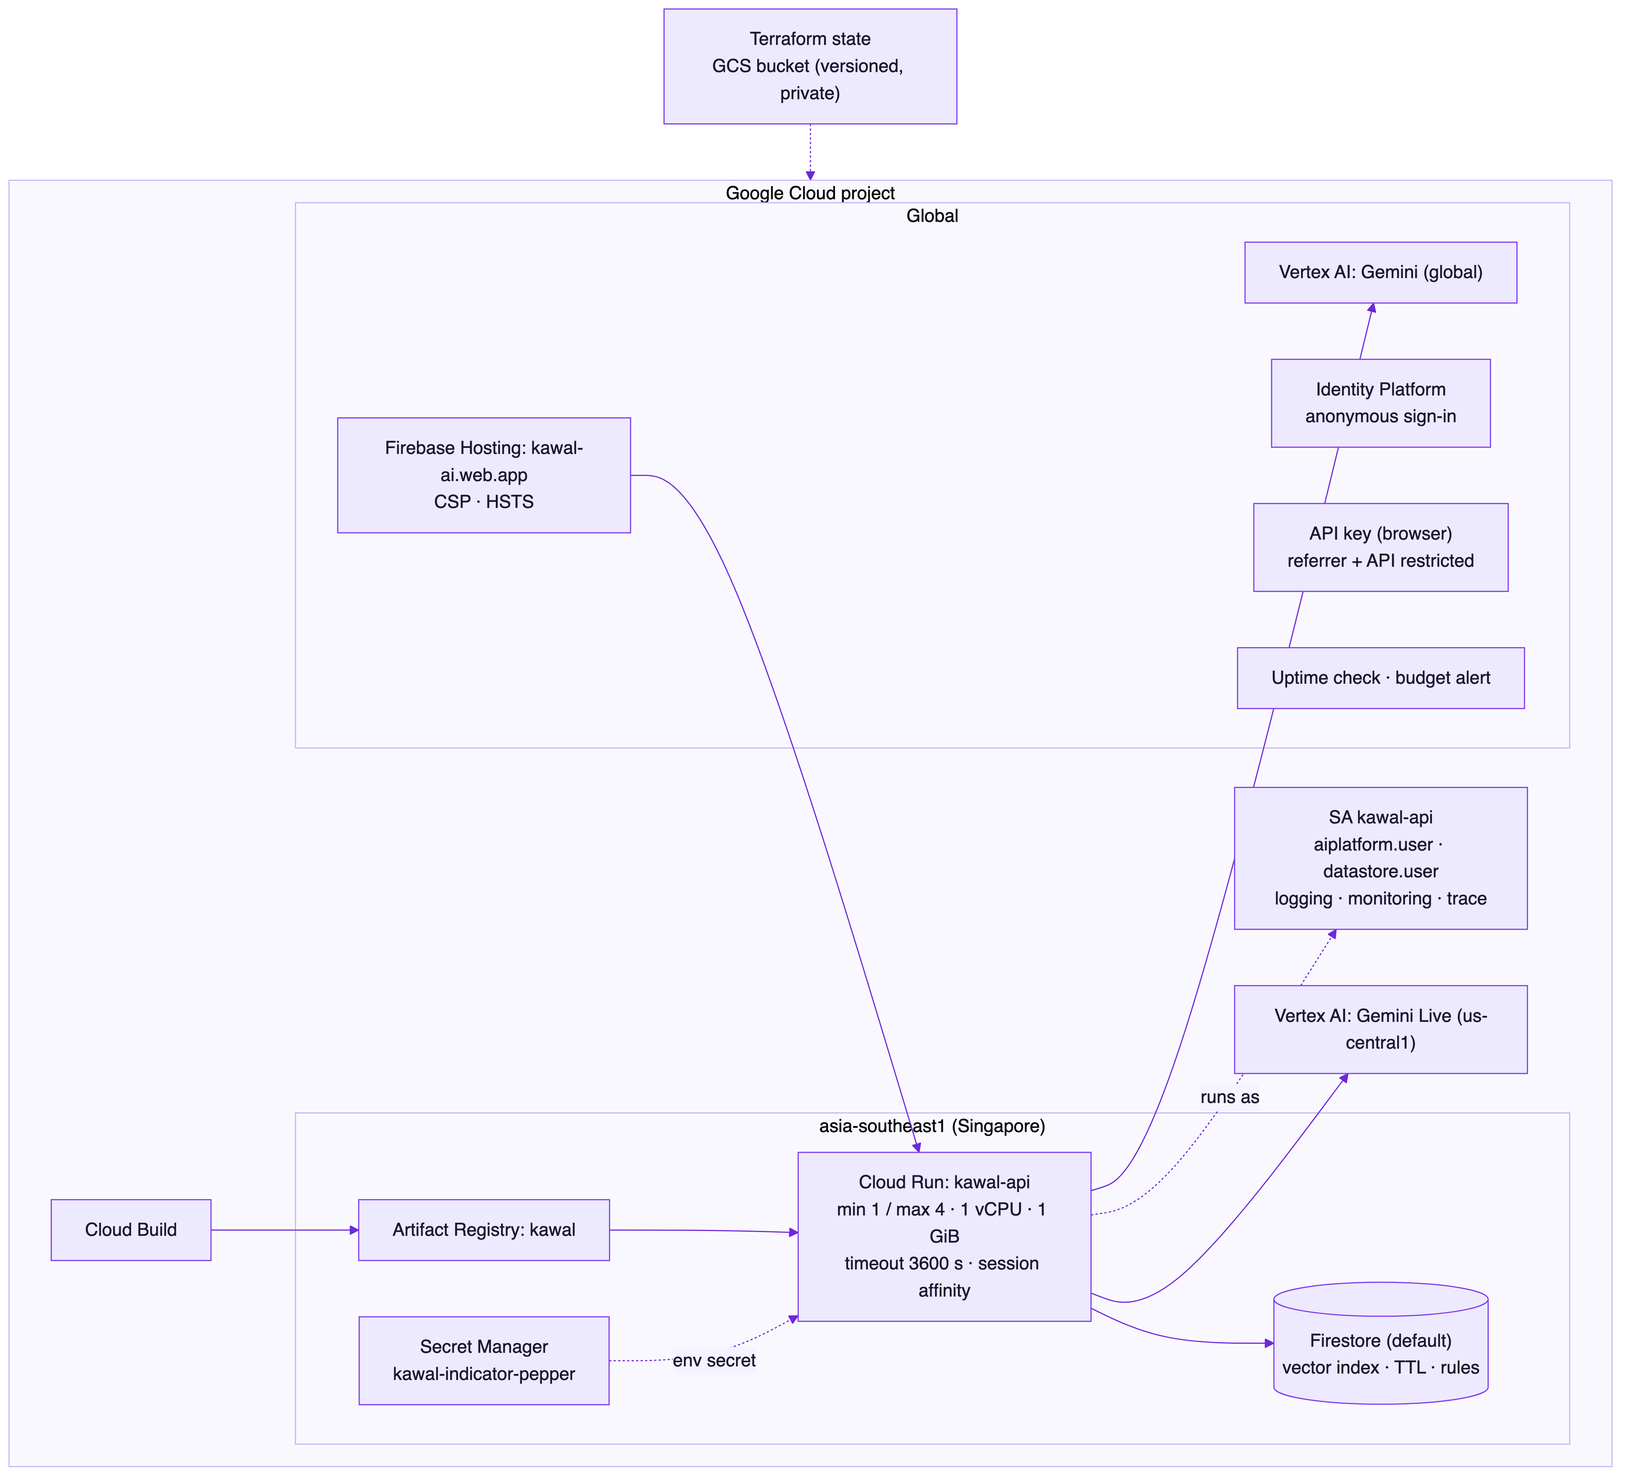
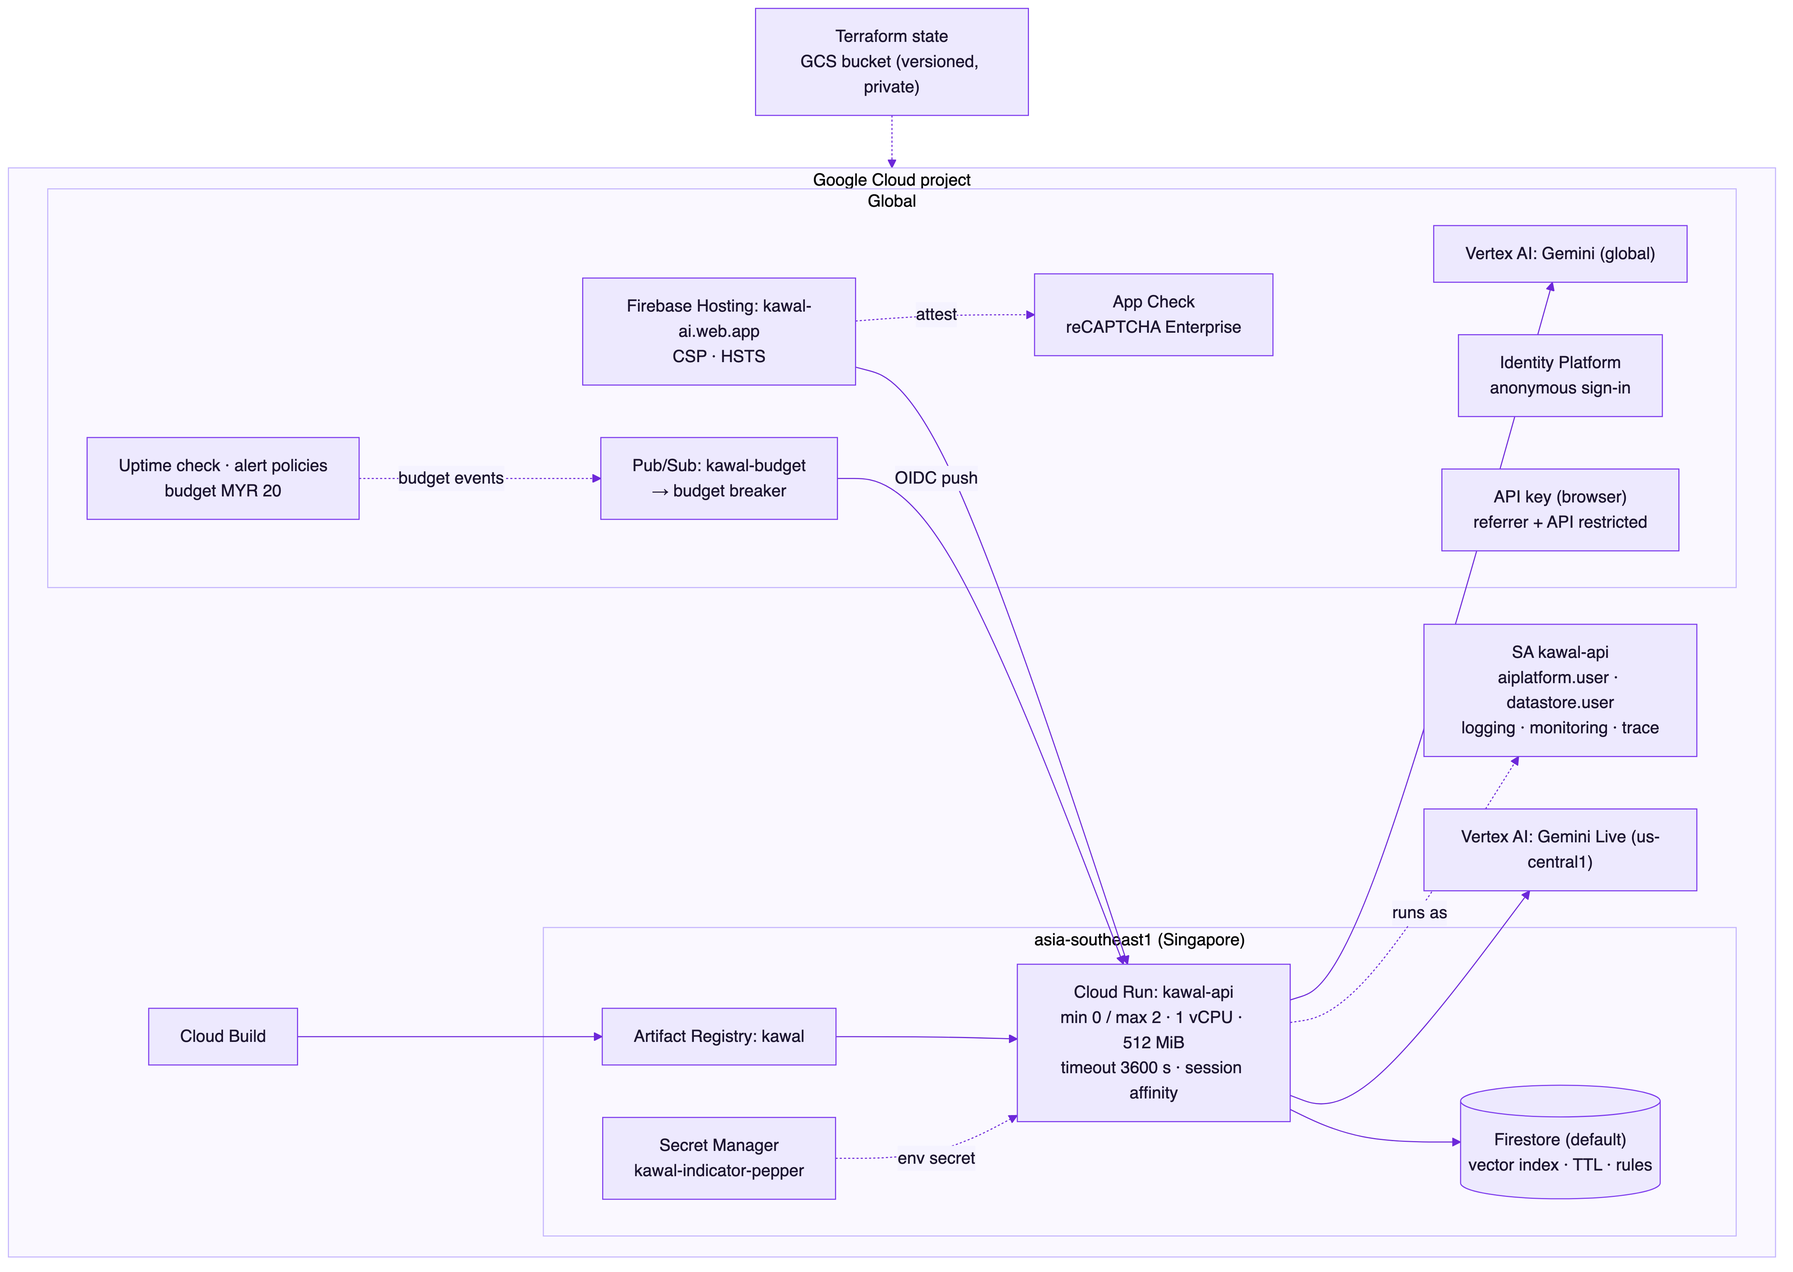
Docs: cost & abuse controls, updated architecture, security and deployment

diff --git a/docs/COST_CONTROLS.md b/docs/COST_CONTROLS.md
@@ -1,0 +1,107 @@
+# Cost & abuse controls
+
+Kawal is open source and its API is public, so anyone can read the code and try to call it. The deployment is
+built so that **the monthly bill stays near zero and can never run away**, no matter who calls it.
+
+```mermaid
+flowchart LR
+  U["Request"] --> AC{"App Check<br/>reCAPTCHA Enterprise"}
+  AC -->|no / invalid| X1["401"]
+  AC --> AUTH{"Firebase ID token"}
+  AUTH -->|no / invalid| X2["401"]
+  AUTH --> KS{"Kill switch<br/>config/runtime.paused"}
+  KS -->|paused| X3["503 - paused to stay in budget"]
+  KS --> RL{"Per-minute limit<br/>per user"}
+  RL -->|burst| X4["429"]
+  RL --> C{"Cache hit?<br/>(24 h)"}
+  C -->|yes| OK1["Instant result<br/>no model cost"]
+  C -->|no| Q{"Daily quota<br/>global · user · IP"}
+  Q -->|exceeded| X5["429 - daily limit"]
+  Q --> V{"Input checks<br/>size · type sniffing"}
+  V -->|bad| X6["400 / 413 / 415"]
+  V --> G["Gemini call<br/>trimmed context<br/>max output tokens"]
+  B["Cloud Billing budget<br/>MYR 20 / month"] -->|Pub/Sub| BR["/internal/budget"]
+  BR -->|spend ≥ 100%| KS
+```
+
+## 1. Layers
+
+| # | Layer | Where | What it stops |
+|---|---|---|---|
+| 1 | **Firebase App Check** (reCAPTCHA Enterprise, invisible) | API (`X-Firebase-AppCheck`, WebSocket first frame), Firestore and Firebase Auth enforcement | Scripts, bots and copies of the open-source frontend calling *our* backend; mass anonymous-account creation |
+| 2 | **Firebase Auth** ID token | every API call and WebSocket | Unauthenticated calls; gives each browser a uid for quotas |
+| 3 | **Kill switch** `config/runtime.paused` | `guard.ensure_open()` on every AI endpoint | All model spend, instantly (cached 30 s per instance) |
+| 4 | **Budget circuit breaker** | Billing budget → Pub/Sub → `POST /internal/budget` (OIDC-verified) | Spend beyond the monthly budget; auto-resumes next month |
+| 5 | **Per-minute limits** | `auth.RateLimiter` | Bursts (e.g. 12 checks / min / user) |
+| 6 | **Daily quotas** - global, per user, per IP (hashed) | Firestore counters in a transaction (`guard.consume`) | The real ceiling: bounded worst-case daily spend |
+| 7 | **Caching** | Firestore `cache/` (24 h), bulletin reuse (60 min), TTS LRU, overview snapshot (30 s) | Paying twice for the same answer - judges click the same examples |
+| 8 | **Context trimming** | request validation + model configs | Huge inputs / outputs: 4 000-char text, ≤ 2 files, image 4 MB / audio 3 MB / PDF 2 MB, magic-byte sniffing, `max_output_tokens` on every call, live sessions ≤ 150 s, scorer window 3 000 chars and ≤ 40 re-scores, analyst ≤ 4 tool rounds with results capped at 3 000 chars |
+| 9 | **Topic & injection guards** | prompts | Using the analyst as a free chatbot ("I can only answer questions about Kawal's scam intelligence"); instructions hidden in scam messages |
+| 10 | **Infra sizing** | Terraform | Cloud Run scales to **zero**, max 2 instances, 512 MiB; uptime check every 15 min; image retention 3 |
+
+## 2. Default ceilings
+
+Set in `infra/variables.tf` (`global_daily`, `user_daily`, `ip_daily`), passed to Cloud Run as JSON. A partial
+override never removes the other caps.
+
+| Feature | Global / day | Per user / day | Per IP / day |
+|---|---|---|---|
+| Scam Check (uncached) | 150 | 20 | 40 |
+| Web grounding (Google Search) | 60 - then checks continue without it | - | - |
+| Live Call Guardian session (≤ 150 s each) | 25 | 5 | 10 |
+| Read-aloud (TTS) | 40 | 10 | 20 |
+| Ask Kawal Intel | 60 | 15 | 30 |
+| New threat bulletin | 8 | 3 | 5 |
+
+Live usage is public at `GET /api/usage`.
+
+## 3. What it costs
+
+*Estimates from public list prices at the time of writing - verify with the Google Cloud pricing calculator.*
+
+| Item | Monthly |
+|---|---|
+| Cloud Run (scale to zero, request-based billing) | ≈ 0 - inside the free tier at demo traffic |
+| Firestore, Hosting, Auth, Pub/Sub, Secret Manager, Cloud Build, Monitoring | ≈ 0 - free tiers |
+| reCAPTCHA Enterprise (App Check), Web Risk | ≈ 0 - free tiers |
+| Artifact Registry (3 images) | < USD 0.05 |
+| Gemini at realistic judging traffic (tens of checks / calls per day) | ≈ MYR 1-5 |
+| **Typical total** | **≈ MYR 0-5 / month** |
+
+**Worst case** (someone exhausts every global cap every day): roughly USD 2.5-4 / day of model spend. The
+**MYR 20 budget breaker** then pauses AI features; because Cloud Billing data can lag by up to a day, the
+realistic hard ceiling is about **budget + one day of maximum usage ≈ MYR 35 / month**.
+
+## 4. Alerts (e-mail to `var.alert_email` + billing admins)
+
+| Alert | Trigger |
+|---|---|
+| Budget thresholds | 25 / 50 / 75 / 90 / 100 % of actual spend, 100 % forecast |
+| **Budget breaker engaged** | log-based metric `kawal_breaker_trips` > 0 |
+| **Abuse spike** | more than 30 quota rejections in an hour (`kawal_quota_rejections`) |
+| API down | uptime check failing for 15 min |
+
+## 5. Operating it
+
+| Task | How |
+|---|---|
+| Pause everything now | Firestore → `config/runtime` → set `paused: true` (or `reason`), effective within 30 s |
+| Resume | set `paused: false` - or wait for the next budget period if the breaker paused it |
+| Raise / lower ceilings | edit `global_daily` / `user_daily` / `ip_daily` in `terraform.tfvars`, `scripts/deploy.sh api` |
+| Change the budget | `budget_amount` in `terraform.tfvars` (billing-account currency), `terraform apply` |
+| Keep an instance warm for a live demo | `min_instances = 1` (≈ USD 10-15 / month), set back to 0 afterwards |
+| Turn App Check off (e.g. local dev) | `appcheck_enforce = false`, or leave `VITE_RECAPTCHA_SITE_KEY` empty locally |
+| Headless tests / demo recording | register a UUID as `appcheck_debug_token` in `terraform.tfvars` and set `self.FIREBASE_APPCHECK_DEBUG_TOKEN` in the test browser - never commit it |
+
+## 6. Verified in production (16 Oct 2026)
+
+| Test | Result |
+|---|---|
+| API call without App Check token | `401 Missing App Check token` |
+| Scripted anonymous sign-up without App Check | rejected by Firebase Auth |
+| Executable renamed to `.png` | `415 File content does not match its type` |
+| Prompt injection against the analyst | refused, no tool calls |
+| 14-request burst | `429` after the per-minute limit |
+| Repeat of an identical check | served from cache in ~0.1 s, not counted against quotas |
+| Simulated over-budget notification (MYR 25 / 20) | kill switch engaged, AI endpoints return `503` |
+| Simulated new budget period | kill switch released automatically, checks work again |

diff --git a/README.md b/README.md
@@ -42,7 +42,7 @@ Google Cloud **AI Builder Cup 2026** · Track: **BFSI - Intelligent Risk, Fraud 
 | **API (Cloud Run)** | https://kawal-api-gb6wisvuia-as.a.run.app/api/health · [OpenAPI docs](https://kawal-api-gb6wisvuia-as.a.run.app/api/docs) |
 | **Demo video** | _added at submission_ |
 | **Pitch deck content** | [docs/PITCH_DECK.md](docs/PITCH_DECK.md) · [demo script](docs/DEMO_SCRIPT.md) · [submission text](docs/SUBMISSION.md) |
-| **Architecture deep-dive** | [docs/ARCHITECTURE.md](docs/ARCHITECTURE.md) |
+| **Architecture deep-dive** | [docs/ARCHITECTURE.md](docs/ARCHITECTURE.md) · [cost & abuse controls](docs/COST_CONTROLS.md) · [handover guide](docs/HANDOVER.md) |
 | **Benchmarks** | [docs/BENCHMARK.md](docs/BENCHMARK.md) |
 
 > **Try it in 30 seconds:** open the live demo → **Live Call Guardian** → *Try a sample scam call* → **Start guarding**.
@@ -68,10 +68,10 @@ Google Cloud **AI Builder Cup 2026** · Track: **BFSI - Intelligent Risk, Fraud 
 | **Gemini 3.8 Live** | Real-time call listening over a bidirectional stream: input transcription, `flag_scam_signal` tool calls, proactive (silent-by-default) spoken warnings. |
 | **Gemini 3.5 Flash-Lite** | Fast paths: Google Search **grounding** (~3 s, parallel with triage) and live transcript re-scoring every 2.5 s. |
 | **Gemini embeddings / TTS** | `gemini-embedding-2` (768-d) clusters reports into campaigns; `gemini-3.8-flash-tts` reads verdicts aloud and voiced the multi-language sample calls. |
-| **Cloud Run** | FastAPI service (Singapore): Server-Sent Events for the agent pipeline, a WebSocket bridge to Gemini Live, min-instance 1, least-privilege service account. |
+| **Cloud Run** | FastAPI service (Singapore): Server-Sent Events for the agent pipeline, a WebSocket bridge to Gemini Live, scale-to-zero, least-privilege service account, budget circuit-breaker endpoint. |
 | **Firestore** | Redacted reports + **KNN vector index**, HMAC-fingerprinted indicators, campaigns, stats, live feed; **TTL** policies for data minimisation; **real-time listeners** drive the console. |
-| **Firebase** | **Hosting** (CSP-hardened SPA), **Authentication** (anonymous sign-in → every API call carries a verified ID token), **Security Rules** (browsers are read-only on aggregated data). |
-| **Also** | Web Risk API, Secret Manager, Artifact Registry, Cloud Build, Cloud Monitoring uptime check, billing budget alert, API-key restrictions - all in [Terraform](infra/). |
+| **Firebase** | **Hosting** (CSP-hardened SPA), **Authentication** (anonymous sign-in → every API call carries a verified ID token), **App Check** (reCAPTCHA Enterprise) on API, Firestore and Auth, **Security Rules** (browsers are read-only on aggregated data). |
+| **Also** | Web Risk API, Secret Manager, Pub/Sub (budget breaker), Artifact Registry, Cloud Build, Cloud Monitoring alerts, billing budget, reCAPTCHA Enterprise, API-key restrictions - all in [Terraform](infra/). |
 
 ## Architecture
 
@@ -180,13 +180,29 @@ Measured on the deployed stack on 16 Oct 2026 - method, raw output and caveats i
 | **Full-screen alert** | **Intel Console** |
 | ![Scam alert](docs/images/ui-alert.png) | ![Intel Console](docs/images/ui-intel.png) |
 
+## Cost & abuse controls (open source, near-zero bill)
+
+The API is public, so every AI feature sits behind layered guard-rails - details in
+[docs/COST_CONTROLS.md](docs/COST_CONTROLS.md):
+
+- **Firebase App Check** (invisible reCAPTCHA Enterprise) on the API, Firestore and Auth - scripts and copies of the
+  frontend can't spend our quota.
+- **Daily ceilings** (global, per user, per hashed IP) in Firestore bound the worst-case daily model spend; usage is
+  public at `/api/usage`.
+- **Budget circuit breaker:** Cloud Billing budget (MYR 20) → Pub/Sub → kill switch that pauses AI features and
+  auto-resumes next month. E-mail alerts at 25-100 %, on breaker trips, abuse spikes and downtime.
+- **Context trimming & caching:** input caps with magic-byte sniffing, `max_output_tokens` everywhere, 150 s live
+  sessions, 24 h result cache, bulletin reuse.
+- **Scale to zero:** Cloud Run min 0 / max 2 - typical bill **≈ MYR 0-5 / month**.
+
 ## Privacy & security
 
 - **Nothing personal is stored.** Messages, screenshots, audio and transcripts are processed in memory only.
 - **Indicators become fingerprints.** Phone numbers, bank accounts and wallets are stored only as HMAC-SHA256 fingerprints (pepper in Secret Manager) with masked labels like `+6011******89`.
 - **Data minimisation.** Shared reports are redacted English summaries that expire after 180 days (Firestore TTL); feed items after 30 days.
 - **Least privilege.** Cloud Run runs as a dedicated service account (Vertex AI user, Datastore user, …) - no API keys in the backend. The browser API key is restricted to our domains and to Firebase APIs.
-- **Defence in depth.** Firebase ID tokens on every API call and WebSocket, origin checks, per-user rate limits, upload type/size limits, prompt-injection guards, strict CSP / HSTS headers, read-only Firestore rules.
+- **Defence in depth.** App Check + Firebase ID tokens on every API call and WebSocket, origin checks, rate limits and daily quotas, upload type/size limits with content sniffing, prompt-injection guards, strict CSP / HSTS headers, read-only Firestore rules.
+- **Repo hygiene.** gitleaks scan of all history (clean), pre-commit secret hook, GitHub secret scanning with push protection, Dependabot alerts, protected `main`.
 
 See [SECURITY.md](SECURITY.md) for the threat model and how to report a vulnerability.
 

diff --git a/docs/ARCHITECTURE.md b/docs/ARCHITECTURE.md
@@ -241,7 +241,7 @@ estimated loss averted) and `bulletins/*` the generated bulletins.
 flowchart TB
   subgraph gcp["Google Cloud project"]
     subgraph sg["asia-southeast1 (Singapore)"]
-      RUN["Cloud Run: kawal-api<br/>min 1 / max 4 · 1 vCPU · 1 GiB<br/>timeout 3600 s · session affinity"]
+      RUN["Cloud Run: kawal-api<br/>min 0 / max 2 · 1 vCPU · 512 MiB<br/>timeout 3600 s · session affinity"]
       AR["Artifact Registry: kawal"]
       FS[("Firestore (default)<br/>vector index · TTL · rules")]
       SM["Secret Manager<br/>kawal-indicator-pepper"]
@@ -249,9 +249,11 @@ flowchart TB
     subgraph glob["Global"]
       HOST["Firebase Hosting: kawal-ai.web.app<br/>CSP · HSTS"]
       AUTH["Identity Platform<br/>anonymous sign-in"]
+      APPC["App Check<br/>reCAPTCHA Enterprise"]
+      PS["Pub/Sub: kawal-budget<br/>→ budget breaker"]
       KEY["API key (browser)<br/>referrer + API restricted"]
       VX["Vertex AI: Gemini (global)"]
-      MON["Uptime check · budget alert"]
+      MON["Uptime check · alert policies<br/>budget MYR 20"]
     end
     VXL["Vertex AI: Gemini Live (us-central1)"]
     CB["Cloud Build"]
@@ -264,6 +266,9 @@ flowchart TB
   RUN --> FS & VX & VXL
   SM -. "env secret" .-> RUN
   HOST --> RUN
+  HOST -. "attest" .-> APPC
+  MON -. "budget events" .-> PS
+  PS -->|"OIDC push"| RUN
   TF -.-> gcp
 ```
 
@@ -274,7 +279,7 @@ env from Terraform outputs and deploys Hosting. Details: [DEPLOYMENT.md](DEPLOYM
 
 | Threat | Mitigation |
 |---|---|
-| Anyone calling the API / burning Gemini quota | Firebase ID token required on every call and WebSocket; per-uid rate limits; Cloud Run max instances; budget alert. |
+| Anyone calling the API / burning Gemini quota | App Check (reCAPTCHA Enterprise) + Firebase ID token on every call and WebSocket; per-minute limits; daily global / user / IP quotas; result caching; budget circuit breaker; Cloud Run max instances. See [COST_CONTROLS.md](COST_CONTROLS.md). |
 | Cross-site WebSocket hijacking | `Origin` must match the hosting domains; token sent in the first frame (never in the URL). |
 | Leaking victims' data | Raw content never stored; HMAC fingerprints; redacted summaries; TTL; Firestore rules deny all client writes and all reads of reports/indicators/sessions. |
 | Leaked credentials in a public repo | No service-account keys or API keys in code; Cloud Run uses its identity; browser key is restricted; `.gitignore` covers env/tfvars/state/keys. |

diff --git a/docs/DEPLOYMENT.md b/docs/DEPLOYMENT.md
@@ -16,8 +16,10 @@ its vector index).
 | Firebase project, web app, Hosting site | Web app hosting; `kawal-ai.web.app` by default |
 | Identity Platform config | Anonymous sign-in, authorised domains |
 | Restricted browser API key | Only our origins; only Identity Toolkit, Secure Token, Firestore, Installations |
-| Cloud Run service `kawal-api` | API + WebSockets; min 1 instance (no cold starts while judging), max 4 |
-| Uptime check + optional budget | `/api/health` every 5 min; monthly budget alerts at 50 / 90 / 100 % |
+| Cloud Run service `kawal-api` | API + WebSockets; scale to zero, max 2 instances, 512 MiB |
+| App Check | reCAPTCHA Enterprise key, App Check registration, enforcement on Firestore + Auth |
+| Budget + circuit breaker | Budget (MYR 20 default) → Pub/Sub → `/internal/budget` kill switch |
+| Monitoring | uptime check every 15 min; alerts for budget breaker, abuse spikes, downtime |
 
 ## Prerequisites
 
@@ -32,7 +34,8 @@ its vector index).
 ```bash
 export PROJECT_ID=your-project-id
 cp infra/terraform.tfvars.example infra/terraform.tfvars
-# edit: project_id, optionally billing_account (enables the budget alert) and hosting_site_id
+# edit: project_id, billing_account (enables budget + circuit breaker), alert_email,
+#       optionally hosting_site_id and appcheck_debug_token (a UUID, for headless tests only)
 ```
 
 `hosting_site_id` becomes `<id>.web.app` and must be globally unique.
@@ -105,9 +108,8 @@ python scripts/generate_sample_calls.py --project $PROJECT_ID   # Gemini TTS, ne
 
 ## Costs
 
-At prototype traffic the bill is dominated by one always-warm Cloud Run instance (≈ USD 10-15 / month with CPU
-throttling) plus per-request Gemini usage. Set `min_instances = 0` in `terraform.tfvars` to scale to zero after
-judging. See the cost estimate in [PITCH_DECK.md](PITCH_DECK.md#slide-10--estimated-implementation-cost).
+Typical bill ≈ MYR 0-5 / month (Cloud Run scales to zero; everything else sits in free tiers; Gemini at demo
+traffic). Ceilings, alerts and the budget circuit breaker are described in [COST_CONTROLS.md](COST_CONTROLS.md).
 
 ## Tear down
 

diff --git a/SECURITY.md b/SECURITY.md
@@ -25,7 +25,11 @@ repository. We aim to acknowledge reports within 72 hours.
 
 - **Identity:** Firebase Authentication (anonymous) - every REST call and WebSocket carries a Firebase ID token
   verified server-side with the Firebase Admin SDK.
-- **Abuse:** per-user rate limits, upload MIME allow-list and 8 MB cap, Cloud Run instance cap, monthly budget alert.
+- **App attestation:** Firebase App Check (reCAPTCHA Enterprise) is required by the API and enforced on Firestore
+  and Firebase Auth, so only the genuine web app can use the backend.
+- **Abuse & cost:** per-minute limits, daily global / per-user / per-IP quotas, a budget-driven kill switch,
+  upload allow-list with magic-byte sniffing and per-type size caps, output-token caps - see
+  [docs/COST_CONTROLS.md](docs/COST_CONTROLS.md).
 - **Transport & browser:** HTTPS only, HSTS, strict Content-Security-Policy, `X-Frame-Options: DENY`,
   `nosniff`, CORS and WebSocket `Origin` allow-lists.
 - **Data access:** Firestore Security Rules allow browsers to *read* only aggregated, redacted collections
@@ -36,6 +40,16 @@ repository. We aim to acknowledge reports within 72 hours.
 - **AI safety:** submitted content is treated as untrusted (prompt-injection guard), outputs are schema-bound and
   clamped to a fixed taxonomy, hotline numbers come from a static reviewed table, and Web Risk overrides the model
   when a link is known-malicious.
+
+## Repository hygiene
+
+- No credentials in the repository: `.env*`, `*.tfvars`, Terraform state, keys and credential files are git-ignored.
+- History scanned with **gitleaks v8.30.1** - no leaks. A `pre-commit` hook runs gitleaks before every commit
+  (`pip install pre-commit && pre-commit install`).
+- GitHub secret scanning with push protection, Dependabot alerts / security updates and a ruleset that blocks
+  force-pushes and deletion of `main` are enabled.
+- The Firebase web API key that ships inside the built JavaScript is *public by design*; it is restricted to our
+  domains and to the Firebase APIs, and is never committed.
 
 ## Supported versions
 

diff --git a/docs/PITCH_DECK.md b/docs/PITCH_DECK.md
@@ -159,14 +159,14 @@ Talking points:
 *Estimates from public list prices at the time of writing; verify with the Google Cloud pricing calculator.
 Gemini costs scale with tokens - figures below assume our measured prompt sizes.*
 
-**Prototype (current deployment)**
+**Prototype (current deployment) - engineered for near-zero cost**
 
 | Item | Monthly |
 |---|---|
-| Cloud Run - 1 warm instance (1 vCPU / 1 GiB, CPU throttled) | ≈ USD 10-15 |
-| Firestore, Hosting, Auth, Secret Manager, Artifact Registry | ≈ USD 0-5 (mostly free tier) |
-| Gemini usage at demo volume (≈ 2,000 checks + 300 call-minutes) | ≈ USD 20-60 |
-| **Total** | **≈ USD 30-80 / month** (budget alert set at MYR 200) |
+| Cloud Run (scale to zero), Firestore, Hosting, Auth, Pub/Sub, Secret Manager, reCAPTCHA, Web Risk | ≈ MYR 0 (free tiers) |
+| Gemini at judging traffic (tens of checks / calls a day) | ≈ MYR 1-5 |
+| **Typical total** | **≈ MYR 0-5 / month** |
+| **Hard ceiling** | daily per-feature quotas + MYR 20 budget circuit breaker (auto-pause) ≈ MYR 35 worst case |
 
 **Unit economics (production)**
 
